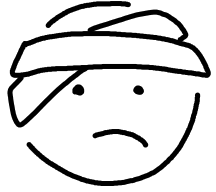
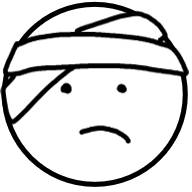
add red/green/yellow to field and fix head-bandage.png

Changed region(s): [[0.0, 0.0, 1.0, 1.0], [0.4062, 0.625, 0.6875, 0.7812], [0.5938, 0.4375, 0.6875, 0.5]]

diff --git a/game.js b/game.js
@@ -17,19 +17,23 @@ function randomText(type) {
     "It's a Draw",
     "That's a Tie",
     "Snap",
-    "Great minds think alike"
+    "Great minds think alike",
+    "Copy cat"
   ]
   const winStrings = [
-    "Gratz! You Win!",
-    "Yeay! Winning!",
-    "Super! You Won!",
-    "Styling, we have a winner"
+    "Gratz, You Win!",
+    "Yeay, Winning!",
+    "Super, You Won!",
+    "Styling, we have a winner",
+    "Great, Keep it up"
   ]
   const loseStrings = [
     "Soz, You Lost",
     "Too bad, Your loss",
     "Better luck next time",
-    "You Lose this one"
+    "You Lose this one",
+    "Oef, not this one",
+    "Almost, but not"
   ]
   switch (type) {
     case "draw":
@@ -43,44 +47,66 @@ function randomText(type) {
   }
 }
 
+function fieldColor(status) {
+  switch (status) {
+    case "win":
+      field.style.backgroundColor = "var(--green)";
+      break;
+    case "draw":
+      field.style.backgroundColor = "var(--yellow)";
+      break;
+    case "lose":
+      field.style.backgroundColor = "var(--red)";
+  }
+}
+
 const selectionComputer = document.querySelector("#selection-computer");
 const selectionPlayer = document.querySelector("#selection-player");
 const scoreResult = document.querySelector("#score-result");
 const scoreInfo = document.querySelector("#score-info");
 const scoreComputer = document.querySelector("#score-computer");
 const scorePlayer = document.querySelector("#score-player");
+const field = document.querySelector("#field");
 
 function playRound(playerSelection, computerSelection) {
   selectionComputer.style.backgroundImage = `url("img/${computerSelection}.png")`;
   selectionPlayer.style.backgroundImage = `url("img/${playerSelection}.png")`;
   if (playerSelection === computerSelection) {
+    fieldColor("draw");
     scoreResult.textContent = randomText("draw");
     scoreInfo.textContent = "try again...";
   } else if (playerSelection === "rock" && computerSelection === "paper") {
+    fieldColor("lose");
     scoreResult.textContent = randomText("lose");
     scoreInfo.textContent = "Paper beats Rock";
     updateScoreComputer++;
   } else if (playerSelection === "paper" && computerSelection === "scissors") {
+    fieldColor("lose");
     scoreResult.textContent = randomText("lose");
     scoreInfo.textContent = "Scissors beats Paper";
     updateScoreComputer++;
   } else if (playerSelection === "scissors" && computerSelection === "rock") {
+    fieldColor("lose");
     scoreResult.textContent = randomText("lose");
     scoreInfo.textContent = "Rock beats Scissors";
     updateScoreComputer++;
   } else if (playerSelection === "rock" && computerSelection === "scissors") {
+    fieldColor("win");
     scoreResult.textContent = randomText("win");
     scoreInfo.textContent = "Rock beats Scissors";
     updateScorePlayer++;
   } else if (playerSelection === "paper" && computerSelection === "rock") {
+    fieldColor("win");
     scoreResult.textContent = randomText("win");
     scoreInfo.textContent = "Paper beats Rock";
     updateScorePlayer++;
   } else if (playerSelection === "scissors" && computerSelection === "paper") {
+    fieldColor("win");
     scoreResult.textContent = randomText("win");
     scoreInfo.textContent = "Scissors beats Paper";
     updateScorePlayer++;
   } else {
+    fieldColor("lose");
     scoreResult.textContent = "Error!";
     scoreInfo.textContent = "You broke the game";
   }
@@ -96,10 +122,12 @@ function endGame() {
   if (updateScoreComputer === 5 || updateScorePlayer === 5) {
     scoreResult.textContent = "We have a winner";
     if (updateScoreComputer === 5) {
+      fieldColor("lose");
       scoreInfo.textContent = "The Computer Won";
       selectionComputer.style.backgroundImage = "url('img/awesome.png')";
       selectionPlayer.style.backgroundImage = "url('img/head-bandage.png')";
     } else {
+      fieldColor("win");
       scoreInfo.textContent = "You won!";
       selectionComputer.style.backgroundImage = "url('img/head-bandage.png')";
       selectionPlayer.style.backgroundImage = "url('img/awesome.png')";

diff --git a/style.css b/style.css
@@ -15,7 +15,10 @@
 
 :root {
   --light-gray: rgb(240, 240, 240);
-  --green: #8ffac8c7;
+  --green: rgba(143, 250, 200, 0.7);
+  --red: rgba(255, 80, 80, 0.7);
+  --yellow: rgba(248, 248, 99, 0.7);
+  --blue: rgba(136, 225, 255, 0.7);
 }
 
 body {
@@ -79,11 +82,15 @@ p {
   right: 10%;
 }
 
+#score-result {
+  font-size: 1.4rem;
+}
+
 #field {
   padding: 20px;
   position: relative;
   height: 100px;
-  background-color: var(--green);
+  background-color: var(--yellow);
   display: flex;
   justify-content: center;
   border: 3px solid black;
@@ -148,7 +155,7 @@ p {
 .selection-buttons button:hover,
 #restart button:hover {
   cursor: pointer;
-  background-color: var(--green);
+  background-color: var(--blue);
   scale: 1.05;
 }
 

diff --git a/index.html b/index.html
@@ -17,7 +17,6 @@
       </header>
       <section id="score">
         <span id="score-computer"></span>
-        <!-- <span>score</span> -->
         <span id="score-player"></span>
         <p id="score-result"></p>
         <p id="score-info"></p>
